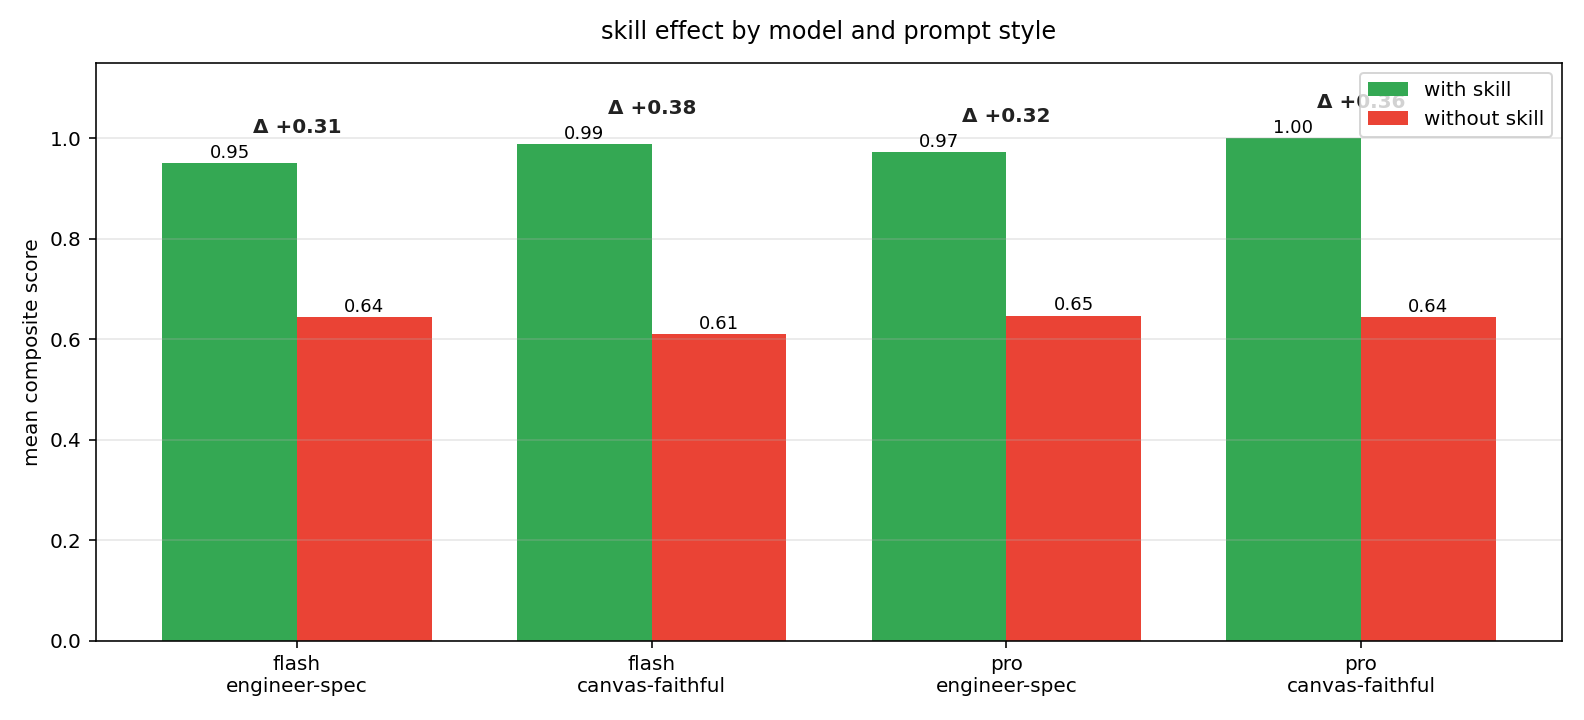
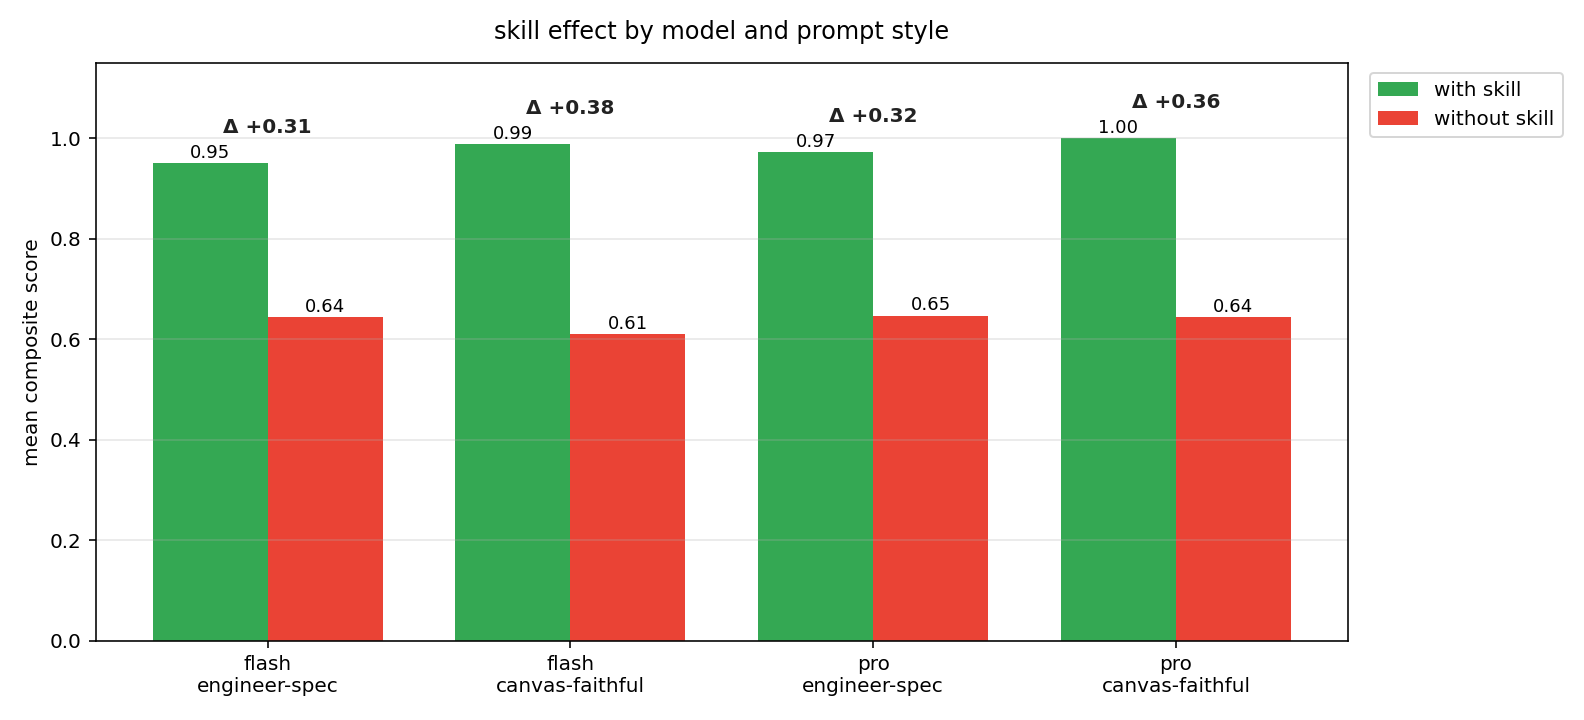
evals: move legend outside the plot so it stops overlapping delta annotations

diff --git a/evals/plot.py b/evals/plot.py
@@ -284,7 +284,7 @@ def plot_api_match_breakdown(by_model: dict) -> pathlib.Path | None:
     ax.set_ylabel("mean api_match (fraction of expected APIs called)")
     ax.set_title("api_match: did the agent call the APIs the skill defines?",
                  pad=12)
-    ax.legend(loc="upper right")
+    ax.legend(loc="upper left", bbox_to_anchor=(1.01, 1.0))
     ax.grid(axis="y", alpha=0.3)
     for i, r in enumerate(rows):
         ax.text(i - width / 2, r["with"] + 0.01, f"{r['with']:.2f}",
@@ -351,7 +351,7 @@ def plot_prompt_style_breakdown(by_model: dict) -> pathlib.Path | None:
     ax.set_ylim(0, 1.15)
     ax.set_ylabel("mean composite score")
     ax.set_title("skill effect by model and prompt style", pad=12)
-    ax.legend(loc="upper right")
+    ax.legend(loc="upper left", bbox_to_anchor=(1.01, 1.0))
     ax.grid(axis="y", alpha=0.3)
     for i, r in enumerate(rows):
         ax.text(i - width / 2, r["with"] + 0.01, f"{r['with']:.2f}",